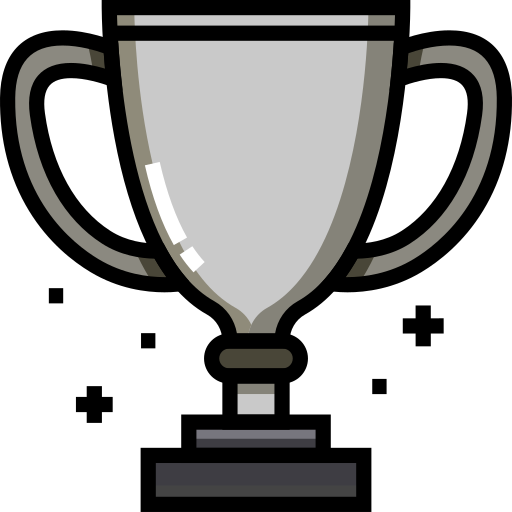
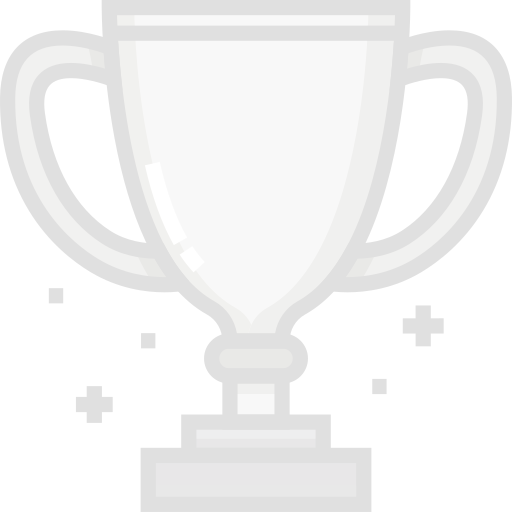
achievement area done - without responsive

diff --git a/index.html b/index.html
@@ -50,6 +50,7 @@
 
         <!-- Rover Details -->
         <section id="rover">
+
             <div class="section-title container">
                 <h2><span class="red">Our</span> Rover</h2>
                 <div class="title-border">
@@ -138,6 +139,41 @@
                 </div>
             </div>
 
+        </section>
+
+        <section id="achievements">
+            <!-- Section Title -->
+
+            <div class="section-title container">
+                <h2><span class="red">Our</span> Achievements</h2>
+                <div class="title-border">
+                    <span class="border red-border"></span>
+                    <span class="border black-border"></span>
+                    <span class="border red-border"></span>
+                </div>
+            </div>
+
+            <div class="achievements-area container">
+                <div class="achievement-info">
+                    <div class="achievement-image">
+                        <img src="images/achievements.jpg" alt="">
+                    </div>
+                    <div class="achievement-details">
+                        <p>European Rover Challenge</p>
+                        <p class="red">2021</p>
+                    </div>
+                </div>
+
+                <div class="achievement-title">
+                    <div class="achiement-icon">
+                        <img src="images/trophy.png" alt="">
+                    </div>
+                    <div class="achievement-text">
+                        <h2 class="red"><span>10th </span>Out of 38 Teams</h2>
+                        <h2>ERC Space & Robotics Event</h2>
+                    </div>
+                </div>
+            </div>
         </section>
     </main>
     <!-- Main Area End -->

diff --git a/css/style.css b/css/style.css
@@ -11,6 +11,7 @@
     padding: 0;
     box-sizing: border-box;
     scroll-behavior: smooth;
+    transition: 1s;
 }
 
 html {
@@ -137,6 +138,7 @@ header {
 }
 
 .title-border {
+    margin-top: 10px;
     display: flex;
     justify-content: center;
 }
@@ -220,6 +222,81 @@ header {
     font-size: 2rem;
     line-height: 2.8rem;
     color: #3D3C3C;
+}
+
+
+
+#achievements {
+    background-image: url(../images/trophy-GRAY.png);
+    background-position: right -250px bottom 200px;
+    background-repeat: no-repeat;
+}
+
+.achievements-area {
+
+    position: relative;
+    z-index: -1;
+    margin-top: 100px;
+}
+
+.achievement-image {
+    width: 70%;
+}
+
+.achievement-image img {
+    width: 100%;
+    ;
+}
+
+.achievement-info {
+    display: flex;
+    justify-content: space-between;
+}
+
+.achievement-details {
+    font-size: 2.4rem;
+    text-align: right;
+    margin-top: 100px;
+    font-weight: 500;
+}
+
+.achievement-details p {
+    margin-bottom: 20px
+}
+
+
+.achievement-title {
+    position: absolute;
+    right: 0;
+    bottom: 50px;
+    z-index: 1;
+    width: 60%;
+    display: flex;
+    justify-content: space-between;
+    align-items: center;
+    padding: 30px 35px;
+    -webkit-box-shadow: 4px 10px 16px 0px #535252;
+    box-shadow: 4px 10px 16px 0px #bbb8b8;
+    background-color: #fff;
+}
+
+.achiement-icon {
+    width: 20%;
+}
+
+.achiement-icon img {
+    width: 80%;
+}
+
+.achievement-text {
+    text-align: right;
+    width: 80%;
+    font-size: 1.8rem;
+    line-height: 4.4rem;
+}
+
+.achievement-text span {
+    font-size: 4rem;
 }
 
 /* --------------------- 
